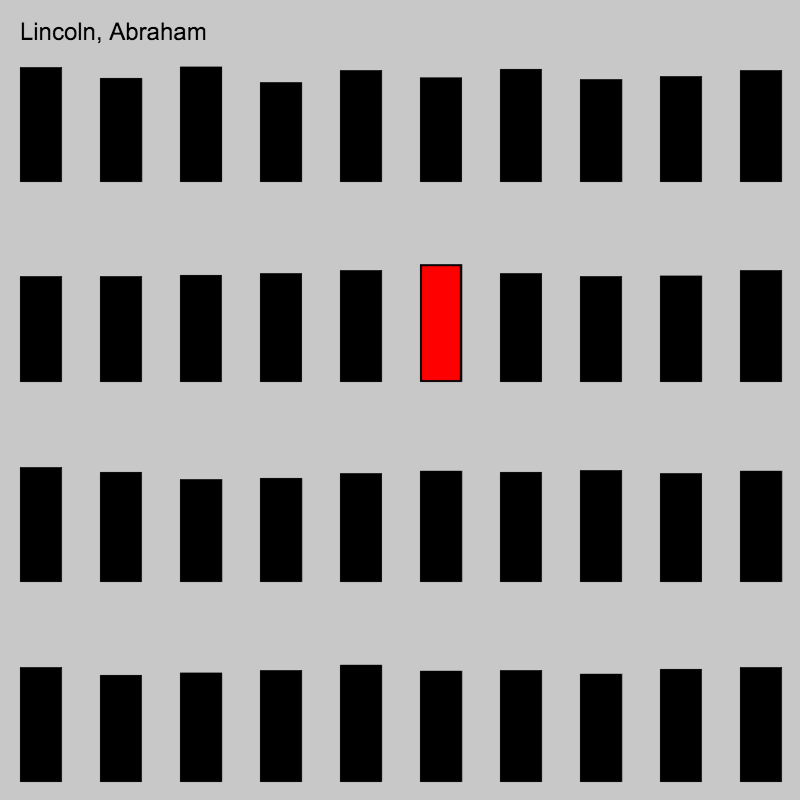
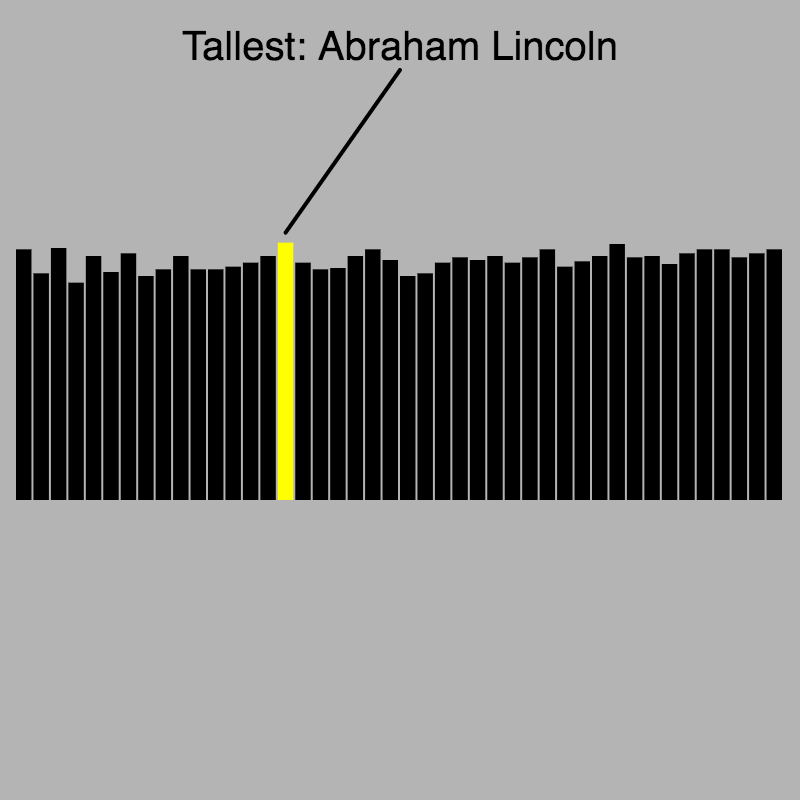
Revised Presidents assignment

diff --git a/other_code/exercises/data/presidents/sketch.js b/other_code/exercises/data/presidents/sketch.js
@@ -1,54 +1,100 @@
-// Practice lab exam 2, problem 1 (Presidents)
-// POSSIBLE SOLUTION
-
+// Display of the height of the presidents
 
 function setup() {
   createCanvas(400, 400);
+  background(180);
   
-  background(200,200,200);
   var presidents = getPresidents();
-  var name = tallest(presidents);
-  if (typeof name === "number") {
-    name = "Oops: your tallest() function returned a number";
-  } else if (typeof name === "object") {
-    name = "Oops: your tallest() function returned an object or nothing";
-  } else if (name === "tall guy") {
-    name = "Oops: you did not implement the tallest() function.";
-  }
-  text(name, 10, 20);
+  var name = getNameOfTallest (presidents);
+  textSize(20);
+  textAlign(CENTER); 
+  text("Tallest: " + name, width/2, 30);
 
-  for (var i = 0; i < 4; i++) { // draw rows
-    for (var j = 0; j < 10; j++) { // draw columns
-      var x = 10 + j * 40;
-      var y = 100 + i * 100;
+  var barMarginX = 8; 
+  var barMarginY = 250; 
+  var barSeparationX = (width - barMarginX*2)/presidents.length;
+  var barWidthX = barSeparationX -1;
+  var barMaxHeightY = height/3;
+  var minPresHeight = 0;//150; 
+  var maxPresHeight = 200; 
+  
+  for (var i = 0; i < presidents.length; i++) { 
+    var aPresident = presidents[i];
+    
+    var x = barMarginX + (i * barSeparationX);
+    var y = barMarginY;
+    var w = barWidthX; 
+    var h = map(aPresident.height, minPresHeight,maxPresHeight, 0,0-barMaxHeightY);
+    
+    if (name === aPresident.name) {
+      stroke(0);
+      strokeWeight(2);
+      line (width/2,35, x+w/2, y+h-5);
+      fill("yellow");
+    } else {
       fill(0);
-      var presIndex = i * 10 + j; // 10 per row and add column to
-      // get the index of the president we want to draw next
-      if (presIndex >= presidents.length) {
-        break; // quit when we run out of presidents to draw
-      }
-      var pres = presidents[i * 10 + j];
-      if (name === pres.name) {
-        fill("red");
-      } else {
-        fill(0);
-      }
-      rect(x, y-10, 20, -pres.height * 0.3);
     }
+    noStroke(); 
+    rect(x, y, w, h);
   }
-
-//  noLoop();
-
+  noLoop();
+  saveCanvas(); 
 }
 
 
-function draw() {}
 
-function keyPressed(){
-  saveCanvas('myCanvas', 'png');
+
+function getPresidents() {
+    return [
+      {name: "George Washington", height: 188},
+      {name: "John Adams", height: 170},
+      {name: "Thomas Jefferson", height: 189},
+      {name: "James Madison", height: 163},
+      {name: "James Monroe", height: 183},
+      {name: "John Q. Adams", height: 171},
+      {name: "Andrew Jackson", height: 185},
+      {name: "Martin Van Buren", height: 168},
+      {name: "William H. Harrison", height: 173},
+      {name: "John Tyler", height: 183},
+      {name: "James K. Polk", height: 173},
+      {name: "Zachary Taylor", height: 173},
+      {name: "Millard Fillmore", height: 175},
+      {name: "Franklin Pierce", height: 178},
+      {name: "James Buchanan", height: 183},
+      {name: "Abraham Lincoln", height: 193},
+      {name: "Andrew Johnson", height: 178},
+      {name: "Ulysses S. Grant", height: 173},
+      {name: "Rutherford B. Hayes", height: 174},
+      {name: "James A. Garfield", height: 183},
+      {name: "Chester A. Arthur", height: 188},
+      {name: "Grover Cleveland", height: 180},
+      {name: "Benjamin Harrison", height: 168},
+      {name: "William McKinley", height: 170},
+      {name: "Theodore Roosevelt", height: 178},
+      {name: "William H. Taft", height: 182},
+      {name: "Woodrow Wilson", height: 180},
+      {name: "Warren G. Harding", height: 183},
+      {name: "Calvin Coolidge", height: 178},
+      {name: "Herbert Hoover", height: 182},
+      {name: "Franklin D. Roosevelt", height: 188},
+      {name: "Harry S. Truman", height: 175},
+      {name: "Dwight D. Eisenhower", height: 179},
+      {name: "John F. Kennedy", height: 183},
+      {name: "Lyndon Johnson", height: 192},
+      {name: "Richard Nixon", height: 182},
+      {name: "Gerald Ford", height: 183},
+      {name: "Jimmy Carter", height: 177},
+      {name: "Ronald Reagan", height: 185},
+      {name: "George H. W. Bush", height: 188},
+      {name: "Bill Clinton", height: 188},
+      {name: "George W. Bush", height: 182},
+      {name: "Barack Obama", height: 185},
+      {name: "Donald J. Trump", height: 188}
+  ];
 }
 
-function tallest(presidents) {
+
+function getNameOfTallest(presidents) {
   // given p, a list of president objects, find the president with
   // the greatest height
   // return the name of the tallest president
@@ -66,135 +112,4 @@ function tallest(presidents) {
 
 
 
-function getPresidents() {
-  return [{
-    name: "Washington, George",
-    height: 188
-  }, {
-    name: "Adams, John",
-    height: 170
-  }, {
-    name: "Jefferson, Thomas",
-    height: 189
-  }, {
-    name: "Madison, James",
-    height: 163
-  }, {
-    name: "Monroe, James",
-    height: 183
-  }, {
-    name: "Adams, John Q.",
-    height: 171
-  }, {
-    name: "Jackson, Andrew",
-    height: 185
-  }, {
-    name: "Van Buren, Martin",
-    height: 168
-  }, {
-    name: "Harrison, William H.",
-    height: 173
-  }, {
-    name: "Tyler, John",
-    height: 183
-  }, {
-    name: "Polk, James K.",
-    height: 173
-  }, {
-    name: "Taylor, Zachary",
-    height: 173
-  }, {
-    name: "Fillmore, Millard",
-    height: 175
-  }, {
-    name: "Pierce, Franklin",
-    height: 178
-  }, {
-    name: "Buchanan, James",
-    height: 183
-  }, {
-    name: "Lincoln, Abraham",
-    height: 193
-  }, {
-    name: "Johnson, Andrew",
-    height: 178
-  }, {
-    name: "Grant, Ulysses S.",
-    height: 173
-  }, {
-    name: "Hayes, Rutherford B.",
-    height: 174
-  }, {
-    name: "Garfield, James A.",
-    height: 183
-  }, {
-    name: "Arthur, Chester A.",
-    height: 188
-  }, {
-    name: "Cleveland, Grover",
-    height: 180
-  }, {
-    name: "Harrison, Benjamin",
-    height: 168
-  }, {
-    name: "McKinley, William",
-    height: 170
-  }, {
-    name: "Roosevelt, Theodore",
-    height: 178
-  }, {
-    name: "Taft, William H.",
-    height: 182
-  }, {
-    name: "Wilson, Woodrow",
-    height: 180
-  }, {
-    name: "Harding, Warren G.",
-    height: 183
-  }, {
-    name: "Coolidge, Calvin",
-    height: 178
-  }, {
-    name: "Hoover, Herbert",
-    height: 182
-  }, {
-    name: "Roosevelt, Franklin D.",
-    height: 188
-  }, {
-    name: "Truman, Harry S.",
-    height: 175
-  }, {
-    name: "Eisenhower, Dwight D.",
-    height: 179
-  }, {
-    name: "Kennedy, John F.",
-    height: 183
-  }, {
-    name: "Johnson, Lyndon",
-    height: 192
-  }, {
-    name: "Nixon, Richard",
-    height: 182
-  }, {
-    name: "Ford, Gerald",
-    height: 183
-  }, {
-    name: "Carter, Jimmy",
-    height: 177
-  }, {
-    name: "Reagan, Ronald",
-    height: 185
-  }, {
-    name: "Bush, George H. W.",
-    height: 188
-  }, {
-    name: "Clinton, Bill",
-    height: 188
-  }, {
-    name: "Bush, George W.",
-    height: 182
-  }, {
-    name: "Obama, Barack",
-    height: 185
-  }];
-}
+function draw() {}
